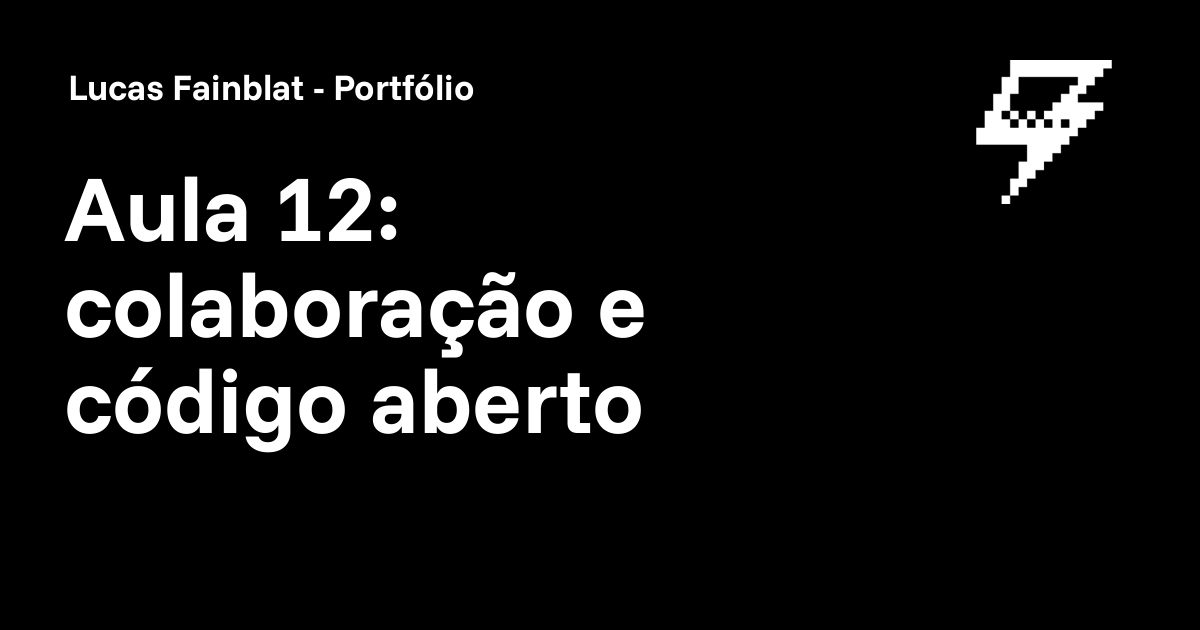
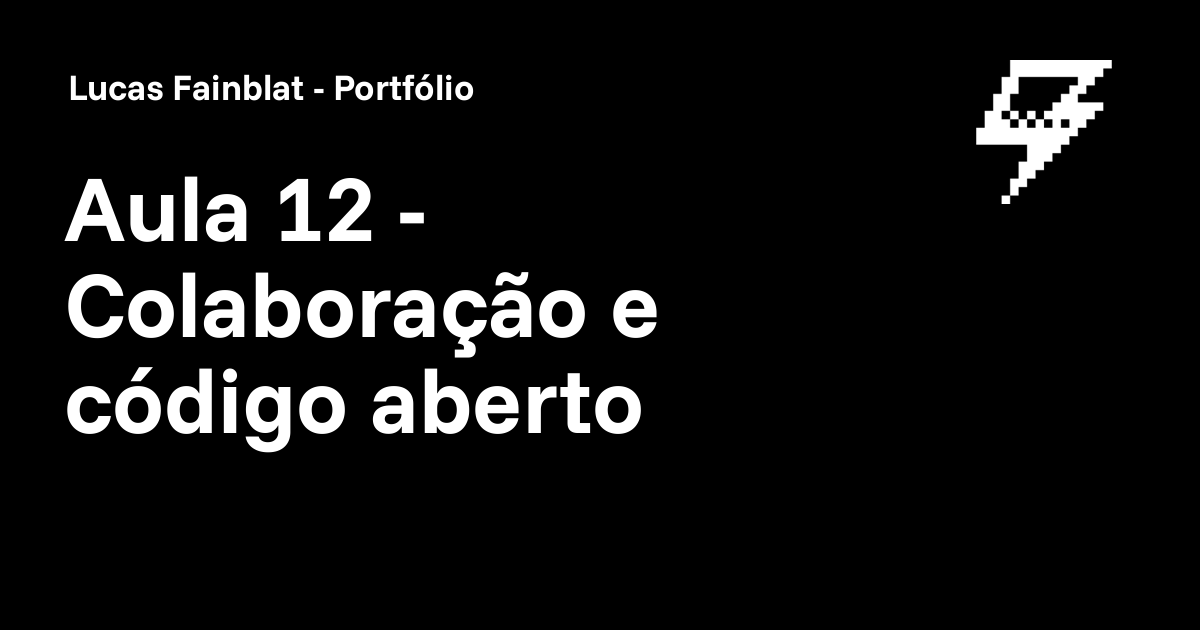
Deployed e3927fc with MkDocs version: 1.6.1

Changed region(s): [[0.0617, 0.4222, 0.555, 0.573], [0.3083, 0.3016, 0.37, 0.3921]]

diff --git a/notas/aulas/aula_12/index.html b/notas/aulas/aula_12/index.html
@@ -22,7 +22,7 @@
     
     
       
-        <title>Aula 12: colaboração e código aberto - Lucas Fainblat - Portfólio</title>
+        <title>Aula 12 - Colaboração e código aberto - Lucas Fainblat - Portfólio</title>
       
     
     
@@ -57,7 +57,7 @@
       
         <meta  property="og:type"  content="website" >
       
-        <meta  property="og:title"  content="Aula 12: colaboração e código aberto - Lucas Fainblat - Portfólio" >
+        <meta  property="og:title"  content="Aula 12 - Colaboração e código aberto - Lucas Fainblat - Portfólio" >
       
         <meta  property="og:description"  content="None" >
       
@@ -73,7 +73,7 @@
       
         <meta  name="twitter:card"  content="summary_large_image" >
       
-        <meta  name="twitter:title"  content="Aula 12: colaboração e código aberto - Lucas Fainblat - Portfólio" >
+        <meta  name="twitter:title"  content="Aula 12 - Colaboração e código aberto - Lucas Fainblat - Portfólio" >
       
         <meta  name="twitter:description"  content="None" >
       
@@ -134,7 +134,7 @@
         <div class="md-header__topic" data-md-component="header-topic">
           <span class="md-ellipsis">
             
-              Aula 12: colaboração e código aberto
+              Aula 12 - Colaboração e código aberto
             
           </span>
         </div>
@@ -822,7 +822,7 @@
   
   
   <span class="md-ellipsis">
-    Aula 12: colaboração e código aberto
+    Aula 12 - Colaboração e código aberto
     
   </span>
   
@@ -835,7 +835,7 @@
   
   
   <span class="md-ellipsis">
-    Aula 12: colaboração e código aberto
+    Aula 12 - Colaboração e código aberto
     
   </span>
   
@@ -858,9 +858,9 @@
     <ul class="md-nav__list" data-md-component="toc" data-md-scrollfix>
       
         <li class="md-nav__item">
-  <a href="#notas" class="md-nav__link">
+  <a href="#anotacoes" class="md-nav__link">
     <span class="md-ellipsis">
-      Notas
+      Anotações
     </span>
   </a>
   
@@ -940,9 +940,9 @@
     <ul class="md-nav__list" data-md-component="toc" data-md-scrollfix>
       
         <li class="md-nav__item">
-  <a href="#notas" class="md-nav__link">
+  <a href="#anotacoes" class="md-nav__link">
     <span class="md-ellipsis">
-      Notas
+      Anotações
     </span>
   </a>
   
@@ -964,11 +964,14 @@
 
 
 
-<h1 id="aula-12-colaboracao-e-codigo-aberto">Aula 12: colaboração e código aberto</h1>
-<p>🔗 <a href="https://www.youtube.com/watch?v=x8eA_b-pwUY&amp;embeds_referring_euri=https%3A%2F%2Ftrilhadev.planejamento.mg.gov.br%2F&amp;source_ve_path=OTY3MTQ">Vídeo</a></p>
-<h2 id="notas">Notas</h2>
-<p>Estruturar o diretório construindo o site (na pasta raiz):
+<h1 id="aula-12-colaboracao-e-codigo-aberto">Aula 12 - Colaboração e código aberto</h1>
+<p>🔗 <a href="https://www.youtube.com/watch?v=x8eA_b-pwUY&amp;embeds_referring_euri=https%3A%2F%2Ftrilhadev.planejamento.mg.gov.br%2F&amp;source_ve_path=OTY3MTQ">Youtube</a></p>
+<h2 id="anotacoes">Anotações</h2>
+<p>Desde o diretório raiz:</p>
+<p>Estruturando o diretório para criação do site:
 <code>poetry run mkdocs build</code></p>
+<p>Publicando o site:
+<code>poetry run mkdocs gh-deploy</code></p>
 
 
 

diff --git a/notas/aulas/aula_12_preliminares_gitignore/index.html b/notas/aulas/aula_12_preliminares_gitignore/index.html
@@ -811,7 +811,7 @@
   
   
   <span class="md-ellipsis">
-    Aula 12: colaboração e código aberto
+    Aula 12 - Colaboração e código aberto
     
   </span>
   
@@ -897,24 +897,6 @@
   
 </li>
         
-          <li class="md-nav__item">
-  <a href="#remover-o-que-nao-queremos" class="md-nav__link">
-    <span class="md-ellipsis">
-      Remover o que não queremos
-    </span>
-  </a>
-  
-</li>
-        
-          <li class="md-nav__item">
-  <a href="#commitar" class="md-nav__link">
-    <span class="md-ellipsis">
-      Commitar
-    </span>
-  </a>
-  
-</li>
-        
       </ul>
     </nav>
   
@@ -989,24 +971,6 @@
   
 </li>
         
-          <li class="md-nav__item">
-  <a href="#remover-o-que-nao-queremos" class="md-nav__link">
-    <span class="md-ellipsis">
-      Remover o que não queremos
-    </span>
-  </a>
-  
-</li>
-        
-          <li class="md-nav__item">
-  <a href="#commitar" class="md-nav__link">
-    <span class="md-ellipsis">
-      Commitar
-    </span>
-  </a>
-  
-</li>
-        
       </ul>
     </nav>
   
@@ -1040,17 +1004,7 @@
 <h3 id="criando-o-arquivo">Criando o arquivo</h3>
 <p>No diretório raiz:
 <code>touch .gitignore</code></p>
-<p>Utilizar o <a href="https://gitignore.io">gitignore.io</a> para gerar automaticamente o arquivo. Copiar e colar código resultante no recém criado <code>.gitignore</code>.</p>
-<h3 id="remover-o-que-nao-queremos">Remover o que não queremos</h3>
-<p>Basta utilizar o comando seguinte a partir da pasta raiz:
-<code>git rm -r --cached .</code></p>
-<h3 id="commitar">Commitar</h3>
-<p>Adicionar todas as mudanças:
-<code>git add .</code>
-Executar o commit:
-<code>git commit -m "&lt;mensagem&gt;"</code>
-Executar o push
-<code>git push origin main</code></p>
+<p>Utilizar o <a href="https://gitignore.io">gitignore.io</a> para gerar automaticamente o arquivo.</p>
 
 
 
@@ -1089,7 +1043,7 @@ Executar o push
       <nav class="md-footer__inner md-grid" aria-label="Rodapé" >
         
           
-          <a href="../aula_12/" class="md-footer__link md-footer__link--prev" aria-label="Anterior: Aula 12: colaboração e código aberto">
+          <a href="../aula_12/" class="md-footer__link md-footer__link--prev" aria-label="Anterior: Aula 12 - Colaboração e código aberto">
             <div class="md-footer__button md-icon">
               
               <svg xmlns="http://www.w3.org/2000/svg" viewBox="0 0 24 24"><path d="M20 11v2H8l5.5 5.5-1.42 1.42L4.16 12l7.92-7.92L13.5 5.5 8 11z"/></svg>
@@ -1099,7 +1053,7 @@ Executar o push
                 Anterior
               </span>
               <div class="md-ellipsis">
-                Aula 12: colaboração e código aberto
+                Aula 12 - Colaboração e código aberto
               </div>
             </div>
           </a>

diff --git a/notas/aulas/aula_03/index.html b/notas/aulas/aula_03/index.html
@@ -588,6 +588,21 @@
     </span>
   </a>
   
+    <nav class="md-nav" aria-label="Notas">
+      <ul class="md-nav__list">
+        
+          <li class="md-nav__item">
+  <a href="#instalando-o-poetry-e-outras-dependencias" class="md-nav__link">
+    <span class="md-ellipsis">
+      Instalando o poetry e outras dependências
+    </span>
+  </a>
+  
+</li>
+        
+      </ul>
+    </nav>
+  
 </li>
       
     </ul>
@@ -864,7 +879,7 @@
   
   
   <span class="md-ellipsis">
-    Aula 12: colaboração e código aberto
+    Aula 12 - Colaboração e código aberto
     
   </span>
   
@@ -946,6 +961,21 @@
     </span>
   </a>
   
+    <nav class="md-nav" aria-label="Notas">
+      <ul class="md-nav__list">
+        
+          <li class="md-nav__item">
+  <a href="#instalando-o-poetry-e-outras-dependencias" class="md-nav__link">
+    <span class="md-ellipsis">
+      Instalando o poetry e outras dependências
+    </span>
+  </a>
+  
+</li>
+        
+      </ul>
+    </nav>
+  
 </li>
       
     </ul>
@@ -971,6 +1001,13 @@
 <li>Repositórios servem para organizar projetos</li>
 <li>Criado o repositório <a href="https://github.com/lucasfainblat/lucas_projetos">lucas_projetos</a></li>
 </ul>
+<h3 id="instalando-o-poetry-e-outras-dependencias">Instalando o poetry e outras dependências</h3>
+<p>Poetry
+<code>pipx install poetry</code></p>
+<p>MKDOCS
+<code>poetry add mkdocs</code></p>
+<p>Material for MkDocs
+<code>poetry add mkdocs-material</code></p>
 
 
 

diff --git a/notas/aulas/aula_11_extra_02/index.html b/notas/aulas/aula_11_extra_02/index.html
@@ -823,7 +823,7 @@
   
   
   <span class="md-ellipsis">
-    Aula 12: colaboração e código aberto
+    Aula 12 - Colaboração e código aberto
     
   </span>
   
@@ -966,13 +966,13 @@
         
         
           
-          <a href="../aula_12/" class="md-footer__link md-footer__link--next" aria-label="Próximo: Aula 12: colaboração e código aberto">
+          <a href="../aula_12/" class="md-footer__link md-footer__link--next" aria-label="Próximo: Aula 12 - Colaboração e código aberto">
             <div class="md-footer__title">
               <span class="md-footer__direction">
                 Próximo
               </span>
               <div class="md-ellipsis">
-                Aula 12: colaboração e código aberto
+                Aula 12 - Colaboração e código aberto
               </div>
             </div>
             <div class="md-footer__button md-icon">

diff --git a/404.html b/404.html
@@ -764,7 +764,7 @@
   
   
   <span class="md-ellipsis">
-    Aula 12: colaboração e código aberto
+    Aula 12 - Colaboração e código aberto
     
   </span>
   

diff --git a/index.html b/index.html
@@ -918,7 +918,7 @@
   
   
   <span class="md-ellipsis">
-    Aula 12: colaboração e código aberto
+    Aula 12 - Colaboração e código aberto
     
   </span>
   

diff --git a/notas/aulas/aula_01/index.html b/notas/aulas/aula_01/index.html
@@ -864,7 +864,7 @@
   
   
   <span class="md-ellipsis">
-    Aula 12: colaboração e código aberto
+    Aula 12 - Colaboração e código aberto
     
   </span>
   

diff --git a/notas/aulas/aula_02/index.html b/notas/aulas/aula_02/index.html
@@ -888,7 +888,7 @@
   
   
   <span class="md-ellipsis">
-    Aula 12: colaboração e código aberto
+    Aula 12 - Colaboração e código aberto
     
   </span>
   

diff --git a/notas/aulas/aula_04/index.html b/notas/aulas/aula_04/index.html
@@ -864,7 +864,7 @@
   
   
   <span class="md-ellipsis">
-    Aula 12: colaboração e código aberto
+    Aula 12 - Colaboração e código aberto
     
   </span>
   

diff --git a/notas/aulas/aula_05/index.html b/notas/aulas/aula_05/index.html
@@ -864,7 +864,7 @@
   
   
   <span class="md-ellipsis">
-    Aula 12: colaboração e código aberto
+    Aula 12 - Colaboração e código aberto
     
   </span>
   

diff --git a/notas/aulas/aula_06/index.html b/notas/aulas/aula_06/index.html
@@ -864,7 +864,7 @@
   
   
   <span class="md-ellipsis">
-    Aula 12: colaboração e código aberto
+    Aula 12 - Colaboração e código aberto
     
   </span>
   

diff --git a/notas/aulas/aula_07/index.html b/notas/aulas/aula_07/index.html
@@ -864,7 +864,7 @@
   
   
   <span class="md-ellipsis">
-    Aula 12: colaboração e código aberto
+    Aula 12 - Colaboração e código aberto
     
   </span>
   
